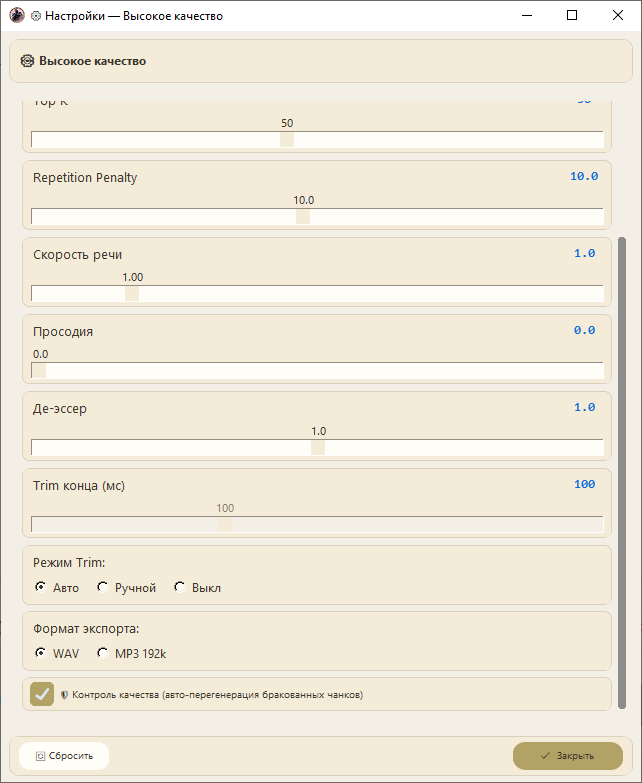
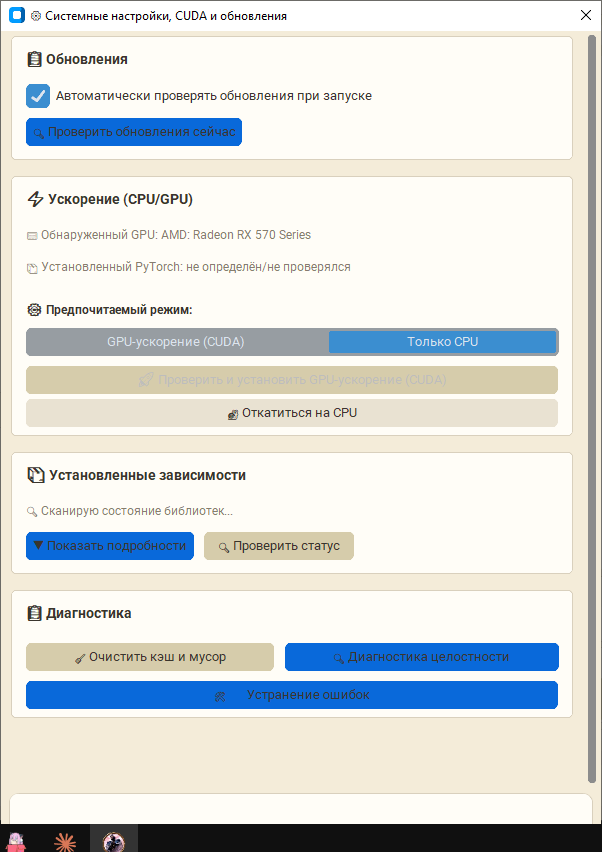
Update

diff --git a/gui.py b/gui.py
@@ -417,6 +417,9 @@ def _run_scan_with_splash(diagnostics_fn):
     """
     import tkinter as tk
     import colorsys
+    import webbrowser
+
+    GITHUB_URL = "https://github.com/DreamSketcher/XTTS-Studio"
 
     result = {}
 
@@ -434,8 +437,20 @@ def _run_scan_with_splash(diagnostics_fn):
         title_lbl.pack(pady=(24, 0))
 
         author_lbl = tk.Label(splash, text="by EXIZ10TION", font=("Segoe UI", 9, "italic"),
-                               bg="#0d1117", fg="#7c6aa5")
-        author_lbl.pack(pady=(0, 8))
+                               bg="#0d1117", fg="#7c6aa5", cursor="hand2")
+        author_lbl.pack(pady=(0, 2))
+        # Клик по подписи автора открывает репозиторий в браузере по умолчанию
+        author_lbl.bind("<Button-1>", lambda e: webbrowser.open(GITHUB_URL))
+
+        # Жирное подчёркивание под подписью — обычный Label.underline слишком
+        # тонкий и не поддаётся управлению толщиной, поэтому рисуем отдельной
+        # полосой того же цвета, что и текст (ширина подгоняется под текст
+        # после отрисовки).
+        author_underline = tk.Frame(splash, bg="#7c6aa5", height=2, cursor="hand2")
+        author_underline.pack(pady=(0, 8))
+        author_underline.bind("<Button-1>", lambda e: webbrowser.open(GITHUB_URL))
+        splash.update_idletasks()
+        author_underline.configure(width=author_lbl.winfo_reqwidth())
 
         status_lbl = tk.Label(splash, text="Проверка окружения...", font=("Segoe UI", 10),
                                bg="#0d1117", fg="#8b949e")
@@ -463,6 +478,7 @@ def _run_scan_with_splash(diagnostics_fn):
             try:
                 title_lbl.configure(fg=title_color)
                 author_lbl.configure(fg=author_color)
+                author_underline.configure(bg=author_color)
                 splash.after(40, _pulse)
             except Exception:
                 pass